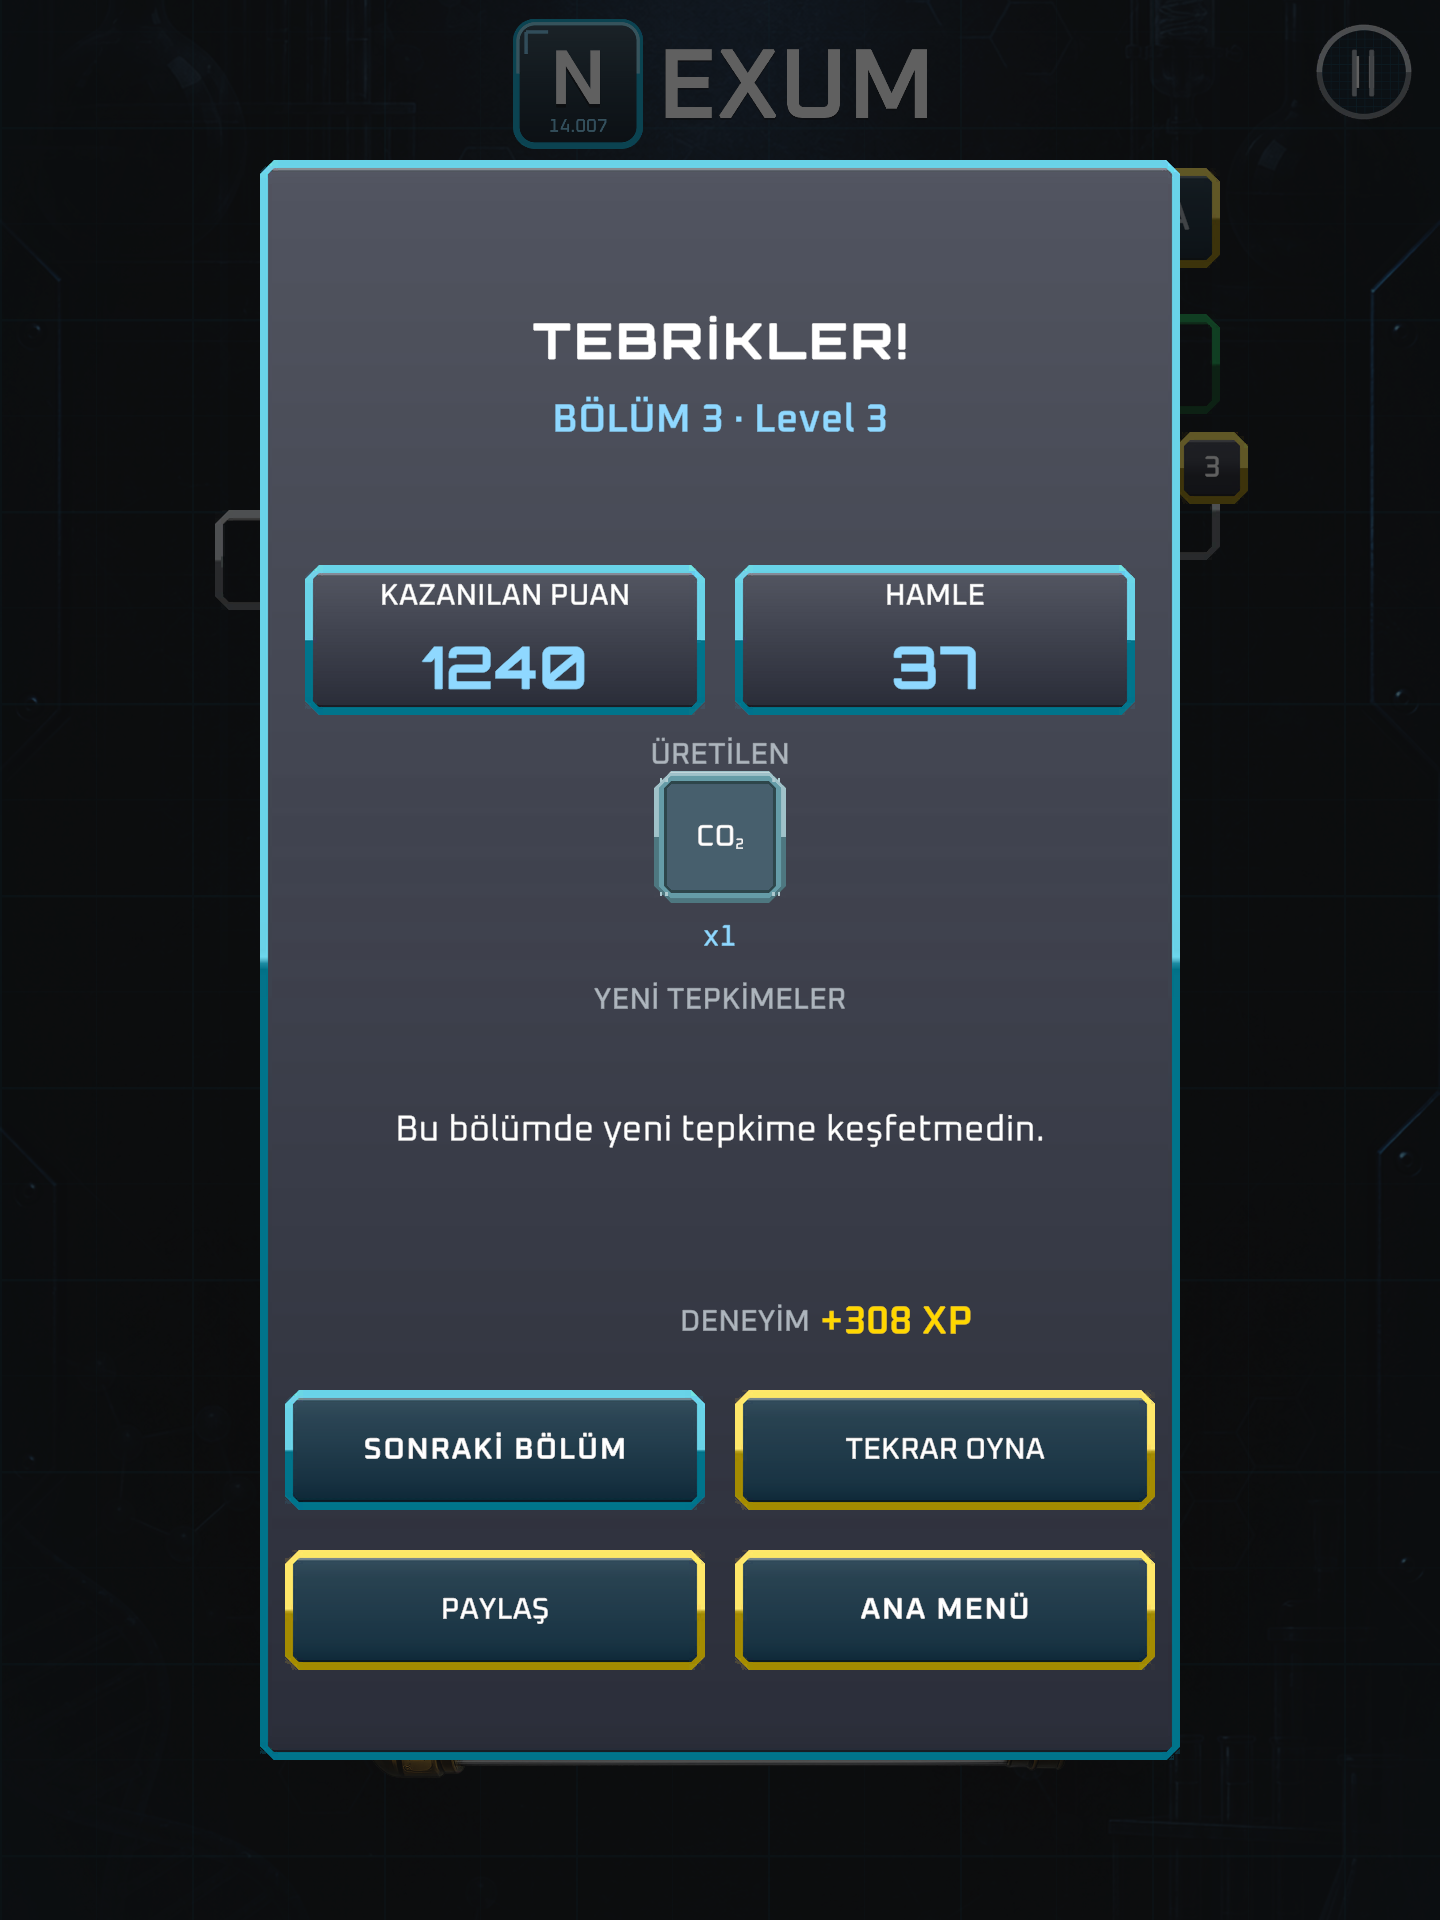
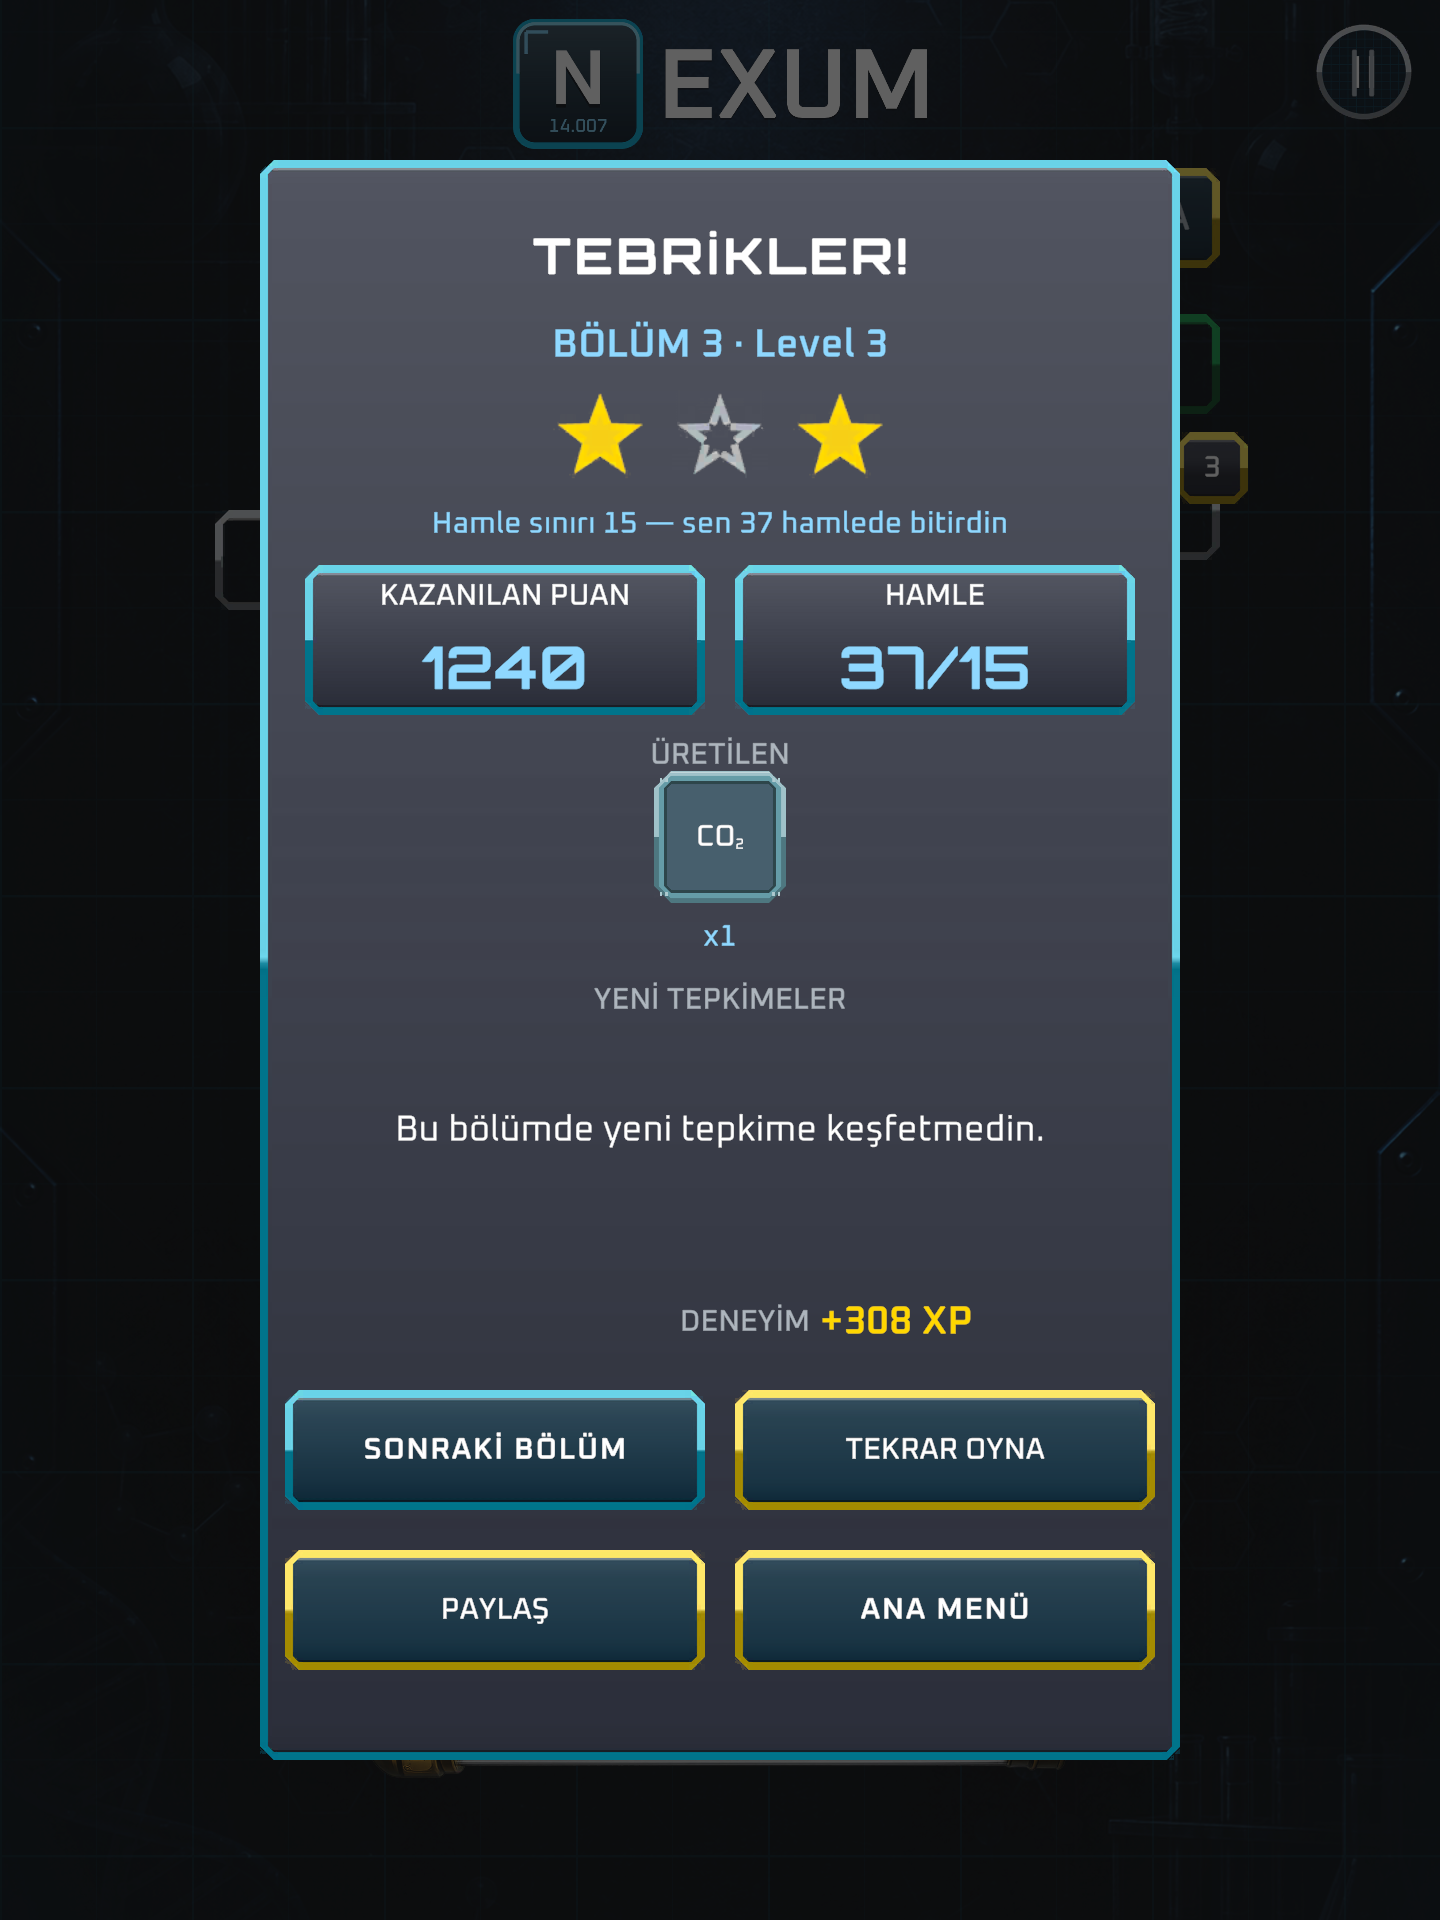
2.2: cihaz goruntuleri - yildiz halleri, bolum haritasi; guvenlik taramasi
NexumDeviceShot (gercek render, GERCEK KOD YOLU):
- sonuc-karti: yildiz maskesi 1-3 (ikinci kacti, ucuncu kazanildi).
  Yildizlarin BAGIMSIZ oldugunu en iyi bu goruntu anlatiyor: ortadaki
  yuva bos, sagdaki dolu. Hamle kutusu '37/15', satir 'Hamle siniri 15
  - sen 37 hamlede bitirdin'.
- sonuc-karti-uc-yildiz (YENI): sinirin altinda, yardimsiz -> 3/3 ve
  'Uc yildiz! Kusursuz sentez.'
- sonuc-karti-tek-yildiz (YENI): sinir asildi + ipucu -> 1/3 ve
  'Yardimsiz bitir: ipucu ve ucretli Joker yok'.
- bolum-haritasi (YENI): dugumlerin ALTINDA yildizlar; temsili kayitla
  L1 3 yildiz, L2 1+3, L3 1+2, L4 1, kalanlar bos.
- ana-menu: kahraman kartta siradaki bolumun yildizlari.
Yildiz maskeleri UYDURULMUYOR: StarRules.Evaluate cagriliyor, yani
goruntudeki yildiz oyunun verecegiyle ayni. Kayit yedeklenip geri
yukleniyor.

GUVENLIK TARAMASI (bu dalin farki uzerinde):
- Ag cagrisi yok; PlayerPrefs hala yalnizca SaveService icinde.
- Yeni kodda kisisel veri, dosya/IO, yansima yok.
- ProjectSettings ve Plugins degismedi (yeni izin yok).
- Sinirsiz buyuyen liste yok: StarService bolum indeksini 64'te
  kirpiyor (kayit katmaninin IntListMax tavaniyla ayni).

Olcum: validator OK 0 uyari, sapma taramasi 15 kurucu / 0 sapma.

Changed region(s): [[0.3125, 0.125, 0.6875, 0.2812], [0.5938, 0.3125, 0.7188, 0.375]]

diff --git a/Assets/Editor/NexumDeviceShot.cs b/Assets/Editor/NexumDeviceShot.cs
@@ -61,6 +61,14 @@ public static class NexumDeviceShot
 
         // 2.1: rütbe atlama kutlaması (sonuç kartının üstünde).
         public bool kutlama;
+
+        // 2.2: sonuç kartındaki yıldız senaryosu.
+        //   0 varsayılan (sınır aşıldı, yardımsız -> 1. ve 3. yıldız)
+        //   1 üç yıldız, 2 yalnızca birinci yıldız (sınır aşıldı + ipucu)
+        public int yildiz;
+
+        // 2.2: bölüm haritası yıldızları doldurulsun mu?
+        public bool haritaYildiz;
     }
 
     public static readonly Ekran[] Ekranlar =
@@ -194,6 +202,33 @@ public static class NexumDeviceShot
                                    "SafeAreaRoot/ElementDetailPanel" },
                     tahtayiDoldur = true, sonucKarti = 2 },
 
+        // 2.2: sonuç kartının üç yıldız hâli. Varsayılan görüntü
+        // (sonuc-karti) zaten 1. ve 3. yıldızı gösteriyor — yıldızların
+        // BAĞIMSIZ olduğunu en iyi o anlatıyor.
+        new Ekran { ad = "sonuc-karti-uc-yildiz", scene = "Assets/Scenes/Game.unity",
+                    ac = new[] { "LevelCompletePanel" },
+                    kapa = new[] { "PausePanel", "QuizPanel", "GameOverPanel",
+                                   "TutorialPanel", "HypothesisPanel", "UndoPanel", "FocusPanel",
+                                   "AssistantPanel", "SafeAreaRoot/RecipeBookPanel",
+                                   "SafeAreaRoot/ElementDetailPanel" },
+                    tahtayiDoldur = true, sonucKarti = 1, yildiz = 1 },
+
+        new Ekran { ad = "sonuc-karti-tek-yildiz", scene = "Assets/Scenes/Game.unity",
+                    ac = new[] { "LevelCompletePanel" },
+                    kapa = new[] { "PausePanel", "QuizPanel", "GameOverPanel",
+                                   "TutorialPanel", "HypothesisPanel", "UndoPanel", "FocusPanel",
+                                   "AssistantPanel", "SafeAreaRoot/RecipeBookPanel",
+                                   "SafeAreaRoot/ElementDetailPanel" },
+                    tahtayiDoldur = true, sonucKarti = 1, yildiz = 2 },
+
+        // 2.2: bölüm haritası düğümlerindeki yıldızlar.
+        new Ekran { ad = "bolum-haritasi", scene = "Assets/Scenes/MainMenu.unity",
+                    ac = new[] { "SafeAreaRoot/LevelSelectionPanel" },
+                    kapa = new[] { "SafeAreaRoot/MainMenuPanel", "SafeAreaRoot/SettingsPanel",
+                                   "SafeAreaRoot/HowToPlayPanel", "SafeAreaRoot/RecipeBookPanel",
+                                   "SafeAreaRoot/ProfilePanel", "SafeAreaRoot/EncyclopediaPanel" },
+                    haritaYildiz = true },
+
         // 2.1: rütbe atlama anı. Kutlama sonuç kartının ÜSTÜNDE duruyor;
         // görüntü ikisini birlikte gösteriyor ki perdenin kartı nasıl
         // örttüğü görülebilsin.
@@ -236,7 +271,8 @@ public static class NexumDeviceShot
                 if (e.ansiklopediyiDoldur) AnsiklopediyiDoldur(canvasGo.transform);
                 if (e.geriBildirim) GeriBildirimiDoldur(canvasGo.transform);
                 if (e.quiz > 0) QuiziDoldur(canvasGo.transform, e.quiz == 2);
-                if (e.sonucKarti > 0) SonucKartiniDoldur(e.sonucKarti == 1);
+                if (e.sonucKarti > 0) SonucKartiniDoldur(e.sonucKarti == 1, e.yildiz);
+                if (e.haritaYildiz) HaritaYildizlariniDoldur();
                 if (e.hub > 0) HubuDoldur(e.hub == 2);
                 if (e.kutlama) KutlamayiDoldur();
                 BilgiKartiniAyarla(canvasGo.transform, e.bilgiKartlariKapali);
@@ -270,7 +306,7 @@ public static class NexumDeviceShot
         Hazirla(canvasGo.transform, e);
         TahtayiDoldur(scene);
         HedefleriDoldur();
-        SonucKartiniDoldur(true);
+        SonucKartiniDoldur(true, 0);
 
         Texture2D png = ResultShare.Render();
         if (png == null) { Debug.LogError($"{Tag}: paylaşım görseli üretilemedi"); return; }
@@ -486,7 +522,7 @@ public static class NexumDeviceShot
     /// <c>ResultCard.Fill</c> çağrılır, yalnızca girdileri (bölüm, sayaçlar)
     /// burada kurulur. Böylece görüntü, oyuncunun göreceğinin ta kendisidir.
     /// </summary>
-    public static void SonucKartiniDoldur(bool tepkimeli)
+    public static void SonucKartiniDoldur(bool tepkimeli, int yildizSenaryo)
     {
         ResultCard card = Object.FindObjectOfType<ResultCard>(true);
         if (card == null) { Debug.LogError($"{Tag}: ResultCard yok"); return; }
@@ -501,7 +537,18 @@ public static class NexumDeviceShot
 
         LevelRun.Reset();
         LevelRun.AddScore(1240);
-        for (int i = 0; i < 37; i++) LevelRun.CountMove();
+
+        // 2.2: YILDIZ SENARYOSU. Hamle sayısı ve yardım bayrakları
+        // kuruluyor, maske GERÇEK KURALDAN (StarRules) hesaplanıyor —
+        // görüntüdeki yıldızlar oyunun verdiğiyle aynı.
+        int sinir = StarRules.MoveLimit(lm.currentLevelIndex);
+        int hamle = yildizSenaryo == 1 ? Mathf.Max(1, sinir - 4) : 37;
+        for (int i = 0; i < hamle; i++) LevelRun.CountMove();
+
+        if (yildizSenaryo == 2) LevelRun.NoteHint();
+
+        LevelRun.NoteStars(StarRules.Evaluate(lm.currentLevelIndex, hamle,
+                                              LevelRun.HintUsed, LevelRun.PaidJokerUsed, true));
 
         if (tepkimeli)
         {
@@ -526,8 +573,48 @@ public static class NexumDeviceShot
 
         card.Fill();
         Debug.Log($"{Tag}_SONUC: bölüm={lm.currentLevelIndex + 1} puan={LevelRun.EarnedScore} " +
-                  $"hamle={LevelRun.Moves} tepkime={LevelRun.NewRecipes.Count} " +
-                  $"xp={LevelRun.XpAwarded}");
+                  $"hamle={LevelRun.Moves}/{sinir} tepkime={LevelRun.NewRecipes.Count} " +
+                  $"xp={LevelRun.XpAwarded} yildiz={StarRules.CountOf(LevelRun.Stars)}/3 " +
+                  $"(maske {LevelRun.Stars})");
+    }
+
+    /// <summary>
+    /// Bölüm haritası yıldızları: her düğüm kendini kayıttan doldurur
+    /// (<c>LevelNodeStars.Apply</c>), ama edit mode'da OnEnable koşmaz.
+    /// GERÇEK KOD YOLU çağrılır; yalnızca girdi (temsilî kayıt) kurulur
+    /// ve KAYIT GERİ YÜKLENİR.
+    /// </summary>
+    public static void HaritaYildizlariniDoldur()
+    {
+        LevelNodeStars[] dugumler = Object.FindObjectsOfType<LevelNodeStars>(true);
+        if (dugumler.Length == 0) { Debug.LogError($"{Tag}: LevelNodeStars yok"); return; }
+
+        string yedek = SaveService.ExportRaw();
+        try
+        {
+            // Temsilî ilerleme: ilk bölüm kusursuz, sonrakiler eksik.
+            SaveService.Data.levelStars = new System.Collections.Generic.List<int>
+            {
+                StarRules.All,
+                StarRules.Complete | StarRules.NoHelp,
+                StarRules.Complete | StarRules.UnderMoveLimit,
+                StarRules.Complete,
+            };
+            SaveService.Data.unlockedLevel = 4;
+            SaveService.Data.maxLevelUnlocked = 5;
+
+            LevelMenuManager menu = Object.FindObjectOfType<LevelMenuManager>(true);
+            if (menu != null) menu.UpdateLevelButtons();
+
+            foreach (LevelNodeStars d in dugumler) d.Apply();
+
+            Debug.Log($"{Tag}_HARITA: {dugumler.Length} dugum, temsili kayit " +
+                      $"(L1 3 yildiz, L2 1+3, L3 1+2, L4 1)");
+        }
+        finally
+        {
+            SaveService.ImportRaw(yedek);
+        }
     }
 
     /// <summary>
